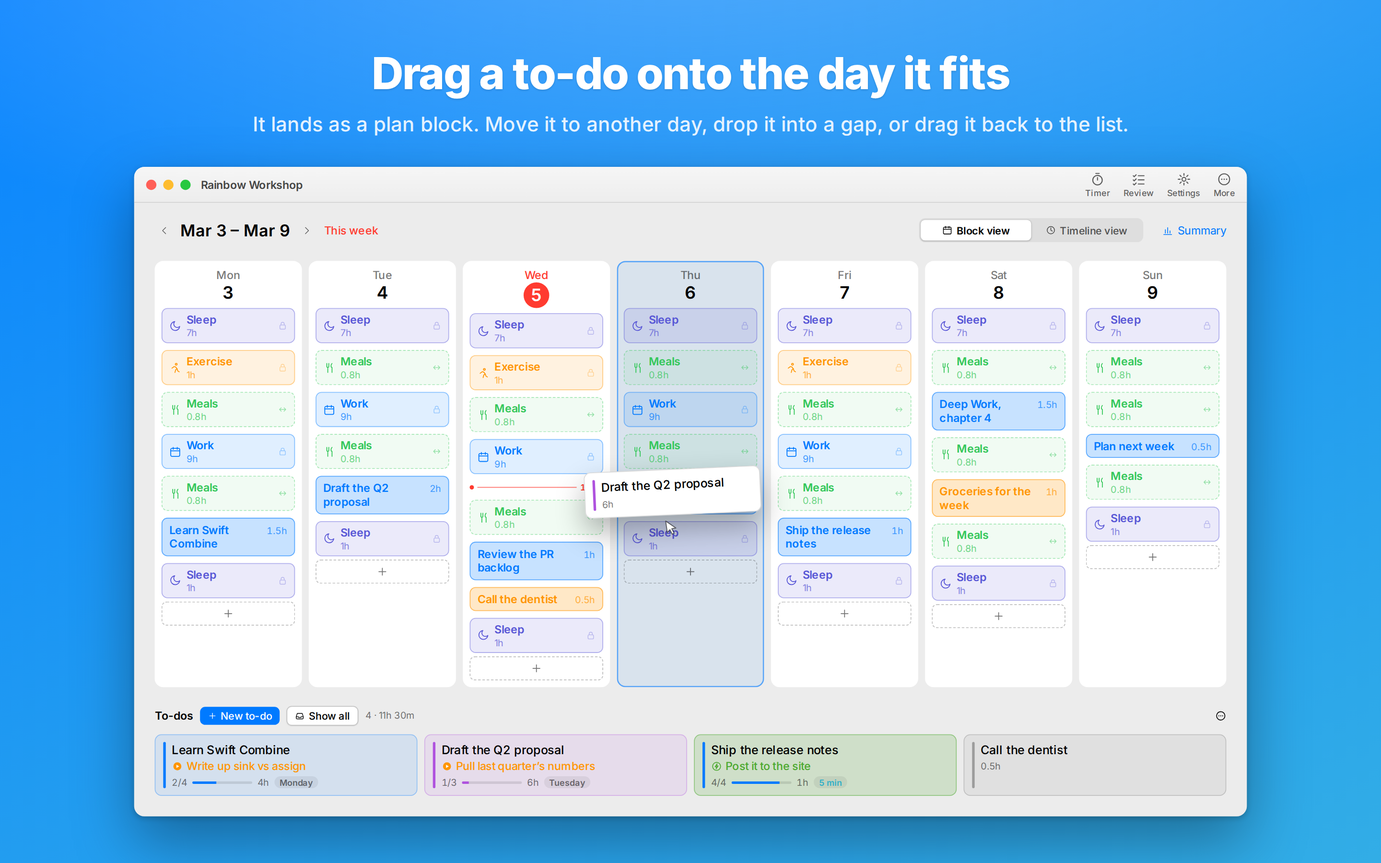
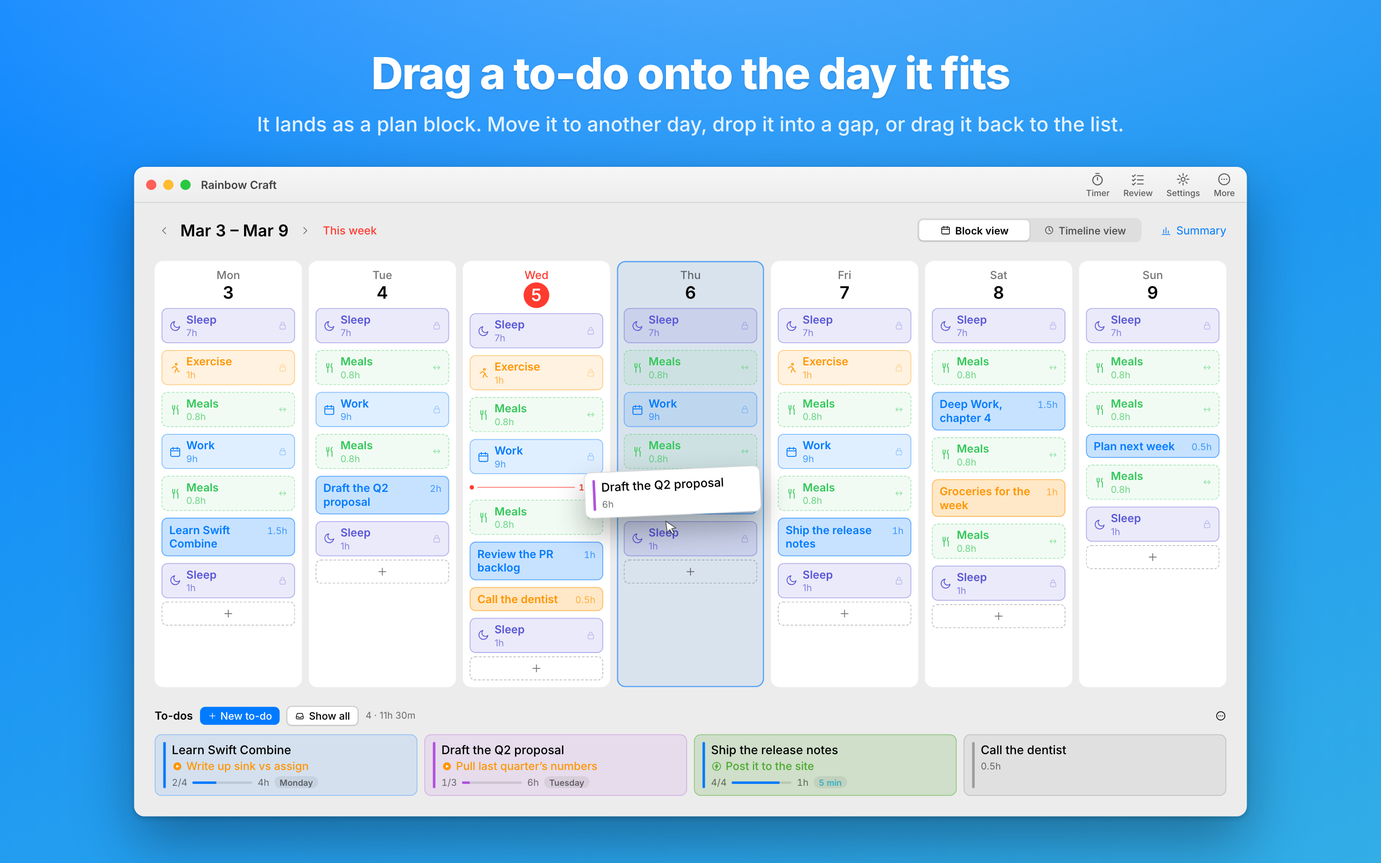
feat: 1.1.6 — 영어 이름은 Rainbow Craft, 오늘은 파란 원, 스포트라이트에서 이름으로 찾힌다
- 영어 이름 Rainbow Workshop → Rainbow Craft. 스토어 이름은 'Rainbow Workshop'이 선점돼
  'Rainbow Craft: Week Planner'(27자). 앱 안·Pro 상품명·영문 페이지·스크린샷을 함께 바꿨다.
  1.1.x 릴리즈 노트의 옛 이름은 그때의 기록이라 두었다.
- 오늘 표시를 빨강에서 파랑으로 — 달력에서 빨강은 공휴일이라 오늘이 쉬는 날로 읽혔다.
  주간 두 보기·일간 날짜 줄·일간 머리. '지금' 선은 시각이라 빨강 그대로.
- LSHasLocalizedDisplayName. 앱스토어 업데이트는 설치된 자리에 덮어써서, 처음
  'WeekBlocks.app'으로 받은 사람은 스포트라이트에서 'WeekBlocks'로만 찾아졌다.
- 버전 1.1.6 (21), 릴리즈 노트.

diff --git a/appstore/index-en.html b/appstore/index-en.html
@@ -1,6 +1,6 @@
 <!doctype html>
 <html lang="en"><head><meta charset="utf-8">
-<title>Rainbow Workshop — App Store screenshots (en)</title>
+<title>Rainbow Craft — App Store screenshots (en)</title>
 <link rel="stylesheet" href="style.css"><style>
 .stack { position:relative; display:flex; justify-content:center; width:1300px; flex:0 0 auto }
 .win.dim::after { content:""; position:absolute; inset:0; background:rgba(0,0,0,.17); z-index:2 }
@@ -17,7 +17,7 @@
   <div class="win ">
     <div class="titlebar">
       <div class="lights"><i class="r"></i><i class="y"></i><i class="g"></i></div>
-      <div class="wtitle">Rainbow Workshop</div>
+      <div class="wtitle">Rainbow Craft</div>
   <div class="tools">
     <div class="tool"><svg class="" viewBox="0 0 24 24" fill="none" stroke="currentColor" stroke-width="1.7" stroke-linecap="round" stroke-linejoin="round"><circle cx="12" cy="13.5" r="7.8"/><path d="M12 13.5V9.2M9.2 2.4h5.6"/></svg><span>Timer</span></div><div class="tool"><svg class="" viewBox="0 0 24 24" fill="none" stroke="currentColor" stroke-width="1.7" stroke-linecap="round" stroke-linejoin="round"><path d="M3.2 6.2 4.8 7.8 8 4.6M3.2 13 4.8 14.6 8 11.4M3.2 19.8l1.6 1.6L8 18.2M11.5 6.2H21M11.5 13H21M11.5 19.8H21"/></svg><span>Review</span></div><div class="tool"><svg class="" viewBox="0 0 24 24" fill="none" stroke="currentColor" stroke-width="1.7" stroke-linecap="round" stroke-linejoin="round"><circle cx="12" cy="12" r="3.2"/><path d="M12 2.6v3M12 18.4v3M21.4 12h-3M5.6 12h-3M18.6 5.4l-2.1 2.1M7.5 16.5l-2.1 2.1M18.6 18.6l-2.1-2.1M7.5 7.5 5.4 5.4"/></svg><span>Settings</span></div><div class="tool"><svg class="" viewBox="0 0 24 24" fill="none" stroke="currentColor" stroke-width="1.7" stroke-linecap="round" stroke-linejoin="round"><circle cx="12" cy="12" r="9"/><circle cx="8" cy="12" r="1.1" fill="currentColor" stroke="none"/><circle cx="12" cy="12" r="1.1" fill="currentColor" stroke="none"/><circle cx="16" cy="12" r="1.1" fill="currentColor" stroke="none"/></svg><span>More</span></div>
   </div>
@@ -283,7 +283,7 @@
   <div class="win ">
     <div class="titlebar">
       <div class="lights"><i class="r"></i><i class="y"></i><i class="g"></i></div>
-      <div class="wtitle">Rainbow Workshop</div>
+      <div class="wtitle">Rainbow Craft</div>
   <div class="tools">
     <div class="tool"><svg class="" viewBox="0 0 24 24" fill="none" stroke="currentColor" stroke-width="1.7" stroke-linecap="round" stroke-linejoin="round"><circle cx="12" cy="13.5" r="7.8"/><path d="M12 13.5V9.2M9.2 2.4h5.6"/></svg><span>Timer</span></div><div class="tool"><svg class="" viewBox="0 0 24 24" fill="none" stroke="currentColor" stroke-width="1.7" stroke-linecap="round" stroke-linejoin="round"><path d="M3.2 6.2 4.8 7.8 8 4.6M3.2 13 4.8 14.6 8 11.4M3.2 19.8l1.6 1.6L8 18.2M11.5 6.2H21M11.5 13H21M11.5 19.8H21"/></svg><span>Review</span></div><div class="tool"><svg class="" viewBox="0 0 24 24" fill="none" stroke="currentColor" stroke-width="1.7" stroke-linecap="round" stroke-linejoin="round"><circle cx="12" cy="12" r="3.2"/><path d="M12 2.6v3M12 18.4v3M21.4 12h-3M5.6 12h-3M18.6 5.4l-2.1 2.1M7.5 16.5l-2.1 2.1M18.6 18.6l-2.1-2.1M7.5 7.5 5.4 5.4"/></svg><span>Settings</span></div><div class="tool"><svg class="" viewBox="0 0 24 24" fill="none" stroke="currentColor" stroke-width="1.7" stroke-linecap="round" stroke-linejoin="round"><circle cx="12" cy="12" r="9"/><circle cx="8" cy="12" r="1.1" fill="currentColor" stroke="none"/><circle cx="12" cy="12" r="1.1" fill="currentColor" stroke="none"/><circle cx="16" cy="12" r="1.1" fill="currentColor" stroke="none"/></svg><span>More</span></div>
   </div>
@@ -598,7 +598,7 @@
   <div class="win ">
     <div class="titlebar">
       <div class="lights"><i class="r"></i><i class="y"></i><i class="g"></i></div>
-      <div class="wtitle">Rainbow Workshop</div>
+      <div class="wtitle">Rainbow Craft</div>
   <div class="tools">
     <div class="tool"><svg class="" viewBox="0 0 24 24" fill="none" stroke="currentColor" stroke-width="1.7" stroke-linecap="round" stroke-linejoin="round"><circle cx="12" cy="13.5" r="7.8"/><path d="M12 13.5V9.2M9.2 2.4h5.6"/></svg><span>Timer</span></div><div class="tool"><svg class="" viewBox="0 0 24 24" fill="none" stroke="currentColor" stroke-width="1.7" stroke-linecap="round" stroke-linejoin="round"><path d="M3.2 6.2 4.8 7.8 8 4.6M3.2 13 4.8 14.6 8 11.4M3.2 19.8l1.6 1.6L8 18.2M11.5 6.2H21M11.5 13H21M11.5 19.8H21"/></svg><span>Review</span></div><div class="tool"><svg class="" viewBox="0 0 24 24" fill="none" stroke="currentColor" stroke-width="1.7" stroke-linecap="round" stroke-linejoin="round"><circle cx="12" cy="12" r="3.2"/><path d="M12 2.6v3M12 18.4v3M21.4 12h-3M5.6 12h-3M18.6 5.4l-2.1 2.1M7.5 16.5l-2.1 2.1M18.6 18.6l-2.1-2.1M7.5 7.5 5.4 5.4"/></svg><span>Settings</span></div><div class="tool"><svg class="" viewBox="0 0 24 24" fill="none" stroke="currentColor" stroke-width="1.7" stroke-linecap="round" stroke-linejoin="round"><circle cx="12" cy="12" r="9"/><circle cx="8" cy="12" r="1.1" fill="currentColor" stroke="none"/><circle cx="12" cy="12" r="1.1" fill="currentColor" stroke="none"/><circle cx="16" cy="12" r="1.1" fill="currentColor" stroke="none"/></svg><span>More</span></div>
   </div>
@@ -899,7 +899,7 @@
   <div class="win dim">
     <div class="titlebar">
       <div class="lights"><i class="r"></i><i class="y"></i><i class="g"></i></div>
-      <div class="wtitle">Rainbow Workshop</div>
+      <div class="wtitle">Rainbow Craft</div>
   <div class="tools">
     <div class="tool"><svg class="" viewBox="0 0 24 24" fill="none" stroke="currentColor" stroke-width="1.7" stroke-linecap="round" stroke-linejoin="round"><circle cx="12" cy="13.5" r="7.8"/><path d="M12 13.5V9.2M9.2 2.4h5.6"/></svg><span>Timer</span></div><div class="tool"><svg class="" viewBox="0 0 24 24" fill="none" stroke="currentColor" stroke-width="1.7" stroke-linecap="round" stroke-linejoin="round"><path d="M3.2 6.2 4.8 7.8 8 4.6M3.2 13 4.8 14.6 8 11.4M3.2 19.8l1.6 1.6L8 18.2M11.5 6.2H21M11.5 13H21M11.5 19.8H21"/></svg><span>Review</span></div><div class="tool"><svg class="" viewBox="0 0 24 24" fill="none" stroke="currentColor" stroke-width="1.7" stroke-linecap="round" stroke-linejoin="round"><circle cx="12" cy="12" r="3.2"/><path d="M12 2.6v3M12 18.4v3M21.4 12h-3M5.6 12h-3M18.6 5.4l-2.1 2.1M7.5 16.5l-2.1 2.1M18.6 18.6l-2.1-2.1M7.5 7.5 5.4 5.4"/></svg><span>Settings</span></div><div class="tool"><svg class="" viewBox="0 0 24 24" fill="none" stroke="currentColor" stroke-width="1.7" stroke-linecap="round" stroke-linejoin="round"><circle cx="12" cy="12" r="9"/><circle cx="8" cy="12" r="1.1" fill="currentColor" stroke="none"/><circle cx="12" cy="12" r="1.1" fill="currentColor" stroke="none"/><circle cx="16" cy="12" r="1.1" fill="currentColor" stroke="none"/></svg><span>More</span></div>
   </div>
@@ -1276,7 +1276,7 @@
   <div class="win dim">
     <div class="titlebar">
       <div class="lights"><i class="r"></i><i class="y"></i><i class="g"></i></div>
-      <div class="wtitle">Rainbow Workshop</div>
+      <div class="wtitle">Rainbow Craft</div>
   <div class="tools">
     <div class="tool"><svg class="" viewBox="0 0 24 24" fill="none" stroke="currentColor" stroke-width="1.7" stroke-linecap="round" stroke-linejoin="round"><circle cx="12" cy="13.5" r="7.8"/><path d="M12 13.5V9.2M9.2 2.4h5.6"/></svg><span>Timer</span></div><div class="tool"><svg class="" viewBox="0 0 24 24" fill="none" stroke="currentColor" stroke-width="1.7" stroke-linecap="round" stroke-linejoin="round"><path d="M3.2 6.2 4.8 7.8 8 4.6M3.2 13 4.8 14.6 8 11.4M3.2 19.8l1.6 1.6L8 18.2M11.5 6.2H21M11.5 13H21M11.5 19.8H21"/></svg><span>Review</span></div><div class="tool"><svg class="" viewBox="0 0 24 24" fill="none" stroke="currentColor" stroke-width="1.7" stroke-linecap="round" stroke-linejoin="round"><circle cx="12" cy="12" r="3.2"/><path d="M12 2.6v3M12 18.4v3M21.4 12h-3M5.6 12h-3M18.6 5.4l-2.1 2.1M7.5 16.5l-2.1 2.1M18.6 18.6l-2.1-2.1M7.5 7.5 5.4 5.4"/></svg><span>Settings</span></div><div class="tool"><svg class="" viewBox="0 0 24 24" fill="none" stroke="currentColor" stroke-width="1.7" stroke-linecap="round" stroke-linejoin="round"><circle cx="12" cy="12" r="9"/><circle cx="8" cy="12" r="1.1" fill="currentColor" stroke="none"/><circle cx="12" cy="12" r="1.1" fill="currentColor" stroke="none"/><circle cx="16" cy="12" r="1.1" fill="currentColor" stroke="none"/></svg><span>More</span></div>
   </div>
@@ -1604,7 +1604,7 @@
   <div class="win dim">
     <div class="titlebar">
       <div class="lights"><i class="r"></i><i class="y"></i><i class="g"></i></div>
-      <div class="wtitle">Rainbow Workshop</div>
+      <div class="wtitle">Rainbow Craft</div>
   <div class="tools">
     <div class="tool"><svg class="" viewBox="0 0 24 24" fill="none" stroke="currentColor" stroke-width="1.7" stroke-linecap="round" stroke-linejoin="round"><circle cx="12" cy="13.5" r="7.8"/><path d="M12 13.5V9.2M9.2 2.4h5.6"/></svg><span>Timer</span></div><div class="tool"><svg class="" viewBox="0 0 24 24" fill="none" stroke="currentColor" stroke-width="1.7" stroke-linecap="round" stroke-linejoin="round"><path d="M3.2 6.2 4.8 7.8 8 4.6M3.2 13 4.8 14.6 8 11.4M3.2 19.8l1.6 1.6L8 18.2M11.5 6.2H21M11.5 13H21M11.5 19.8H21"/></svg><span>Review</span></div><div class="tool"><svg class="" viewBox="0 0 24 24" fill="none" stroke="currentColor" stroke-width="1.7" stroke-linecap="round" stroke-linejoin="round"><circle cx="12" cy="12" r="3.2"/><path d="M12 2.6v3M12 18.4v3M21.4 12h-3M5.6 12h-3M18.6 5.4l-2.1 2.1M7.5 16.5l-2.1 2.1M18.6 18.6l-2.1-2.1M7.5 7.5 5.4 5.4"/></svg><span>Settings</span></div><div class="tool"><svg class="" viewBox="0 0 24 24" fill="none" stroke="currentColor" stroke-width="1.7" stroke-linecap="round" stroke-linejoin="round"><circle cx="12" cy="12" r="9"/><circle cx="8" cy="12" r="1.1" fill="currentColor" stroke="none"/><circle cx="12" cy="12" r="1.1" fill="currentColor" stroke="none"/><circle cx="16" cy="12" r="1.1" fill="currentColor" stroke="none"/></svg><span>More</span></div>
   </div>

diff --git a/docs/privacy-en.html b/docs/privacy-en.html
@@ -3,8 +3,8 @@
 <head>
 <meta charset="UTF-8" />
 <meta name="viewport" content="width=device-width, initial-scale=1.0" />
-<title>Rainbow Workshop Privacy Policy</title>
-<meta name="description" content="What Rainbow Workshop (macOS) handles, where it is stored, and what it never does." />
+<title>Rainbow Craft Privacy Policy</title>
+<meta name="description" content="What Rainbow Craft (macOS) handles, where it is stored, and what it never does." />
 <style>
   :root {
     --red:#FF3B30; --orange:#FF9500; --yellow:#FFCC00; --green:#34C759;
@@ -77,15 +77,15 @@
 
 <main class="wrap">
 
-<p style="padding-top:28px"><a href="index.html">Back to Rainbow Workshop</a> &middot; <a href="privacy.html">한국어</a></p>
+<p style="padding-top:28px"><a href="index.html">Back to Rainbow Craft</a> &middot; <a href="privacy.html">한국어</a></p>
 
 <header style="padding:8px 0 28px">
   <h1 style="font-size:34px; text-align:left; margin:0 0 8px">Privacy Policy</h1>
-  <p class="muted" style="margin:0">Rainbow Workshop (macOS) &middot; Last updated: September 9, 2026</p>
+  <p class="muted" style="margin:0">Rainbow Craft (macOS) &middot; Last updated: September 9, 2026</p>
 </header>
 
 <section style="border-top:1px solid var(--line); padding-top:28px">
-  <p>Rainbow Workshop (the app) is a local-first app with no server of its own. This document explains what the app handles, where it stores it, and what it never does.</p>
+  <p>Rainbow Craft (the app) is a local-first app with no server of its own. This document explains what the app handles, where it stores it, and what it never does.</p>
   <div class="note">
     In short. What you write (to-dos, plans, routines) is stored only on your device and in your own private iCloud database, and the developer cannot reach it. To keep improving the app, it does send <b>anonymous usage statistics</b> — numbers such as app version, launch count, and how many items you have. These never include anything you wrote or anything that identifies you, and you can turn them off in Settings.
   </div>
@@ -201,8 +201,8 @@
 </main>
 
 <footer>
-  <div>2026 Rainbow Workshop</div>
-  <div class="fam">Rainbow Workshop (macOS) &middot; Rainbow of Desire (iOS)</div>
+  <div>2026 Rainbow Craft</div>
+  <div class="fam">Rainbow Craft (macOS) &middot; Rainbow of Desire (iOS)</div>
 </footer>
 
 </body>

diff --git a/docs/support-en.html b/docs/support-en.html
@@ -3,8 +3,8 @@
 <head>
 <meta charset="UTF-8" />
 <meta name="viewport" content="width=device-width, initial-scale=1.0" />
-<title>Rainbow Workshop Support</title>
-<meta name="description" content="Help and contact for Rainbow Workshop, a weekly time-blocking app for macOS." />
+<title>Rainbow Craft Support</title>
+<meta name="description" content="Help and contact for Rainbow Craft, a weekly time-blocking app for macOS." />
 <style>
   :root {
     --red:#FF3B30; --orange:#FF9500; --yellow:#FFCC00; --green:#34C759;
@@ -79,7 +79,7 @@
 
 <header class="hero" style="padding:56px 0 40px">
   <span class="badge">macOS</span>
-  <h1>Rainbow Workshop</h1>
+  <h1>Rainbow Craft</h1>
   <p class="tagline">A workbench for planning your week by day and by hour. Drag a to-do onto a day, and watch what actually fits.</p>
 </header>
 
@@ -118,7 +118,7 @@
 
 <section>
   <h2>Works with your iPhone</h2>
-  <p>On the same iCloud account, Rainbow Workshop connects with the iOS app Rainbow of Desire. To-dos written on your Mac appear on your iPhone, and the other way round.</p>
+  <p>On the same iCloud account, Rainbow Craft connects with the iOS app Rainbow of Desire. To-dos written on your Mac appear on your iPhone, and the other way round.</p>
   <p class="muted">Writing on this Mac is free. Pro covers only sending what you write here over to your iPhone.</p>
 </section>
 
@@ -163,8 +163,8 @@
 </main>
 
 <footer>
-  <div>2026 Rainbow Workshop</div>
-  <div class="fam">Rainbow Workshop (macOS) &middot; Rainbow of Desire (iOS)</div>
+  <div>2026 Rainbow Craft</div>
+  <div class="fam">Rainbow Craft (macOS) &middot; Rainbow of Desire (iOS)</div>
   <div class="fam"><a href="privacy-en.html">Privacy Policy</a> &middot; <a href="index.html">한국어</a></div>
 </footer>
 

diff --git a/WeekBlocks/ContentView.swift b/WeekBlocks/ContentView.swift
@@ -851,18 +851,18 @@ struct ContentView: View {
             VStack(spacing: 4) {
                 Text(day.shortLabel)
                     .font(.system(size: 11, weight: .semibold, design: .rounded))
-                    .foregroundStyle(today ? Color.red : .secondary)
+                    .foregroundStyle(today ? Color.blue : .secondary)
                 ZStack {
                     if selected {
                         Circle()
-                            .fill(today ? Color.red : Color.accentColor)
-                            .shadow(color: (today ? Color.red : Color.accentColor).opacity(0.35), radius: 5, y: 2)
+                            .fill(today ? Color.blue : Color.accentColor)
+                            .shadow(color: (today ? Color.blue : Color.accentColor).opacity(0.35), radius: 5, y: 2)
                             .matchedGeometryEffect(id: "selectedDay", in: dayStripNamespace)
                     }
                     Text(dayNumber(day))
                         .font(.system(size: 15, weight: .bold, design: .rounded))
                         .monospacedDigit()
-                        .foregroundStyle(selected ? Color.white : (today ? Color.red : Color.primary))
+                        .foregroundStyle(selected ? Color.white : (today ? Color.blue : Color.primary))
                 }
                 .frame(width: 32, height: 32)
                 // 지난 날인데 안 찍은 것이 남았다. 그 요일을 열기 전에 알아야 한다.

diff --git a/WeekBlocks/WeekGridView.swift b/WeekBlocks/WeekGridView.swift
@@ -295,7 +295,7 @@ struct DayColumn: View {
             VStack(spacing: 3) {
                 Text(day.shortLabel)
                     .font(.system(size: 12, weight: .semibold))
-                    .foregroundStyle(isToday ? Color.red : .secondary)
+                    .foregroundStyle(isToday ? Color.blue : .secondary)
                 Text(dayNumber)
                     .font(.system(size: 17, weight: .bold))
                     .monospacedDigit()
@@ -303,9 +303,10 @@ struct DayColumn: View {
                     .frame(width: 32, height: 32)
                     .background {
                         if isToday {
+                            // 오늘은 파랑 — 달력에서 빨강은 공휴일이라, 오늘을 빨갛게 칠하면 쉬는 날로 읽힌다.
                             Circle()
-                                .fill(Color.red)
-                                .shadow(color: .red.opacity(0.35), radius: 5, y: 2)
+                                .fill(Color.blue)
+                                .shadow(color: .blue.opacity(0.35), radius: 5, y: 2)
                         } else if headerHovering, onOpenDay != nil {
                             Circle().fill(Color.primary.opacity(0.06))
                         }

diff --git a/WeekBlocks/DayTimelineView.swift b/WeekBlocks/DayTimelineView.swift
@@ -478,7 +478,7 @@ struct DayTimelineRow: View {
             HStack(spacing: 5) {
                 Text(day.shortLabel)
                     .font(.system(size: 11, weight: .semibold))
-                    .foregroundStyle(isToday ? Color.red : .secondary)
+                    .foregroundStyle(isToday ? Color.blue : .secondary)
                     .frame(width: 14)
                 Text(dayNumber)
                     .font(.system(size: 13, weight: .bold))
@@ -487,8 +487,9 @@ struct DayTimelineRow: View {
                     .frame(width: 26, height: 26)
                     .background {
                         if isToday {
-                            Circle().fill(Color.red)
-                                .shadow(color: .red.opacity(0.3), radius: 4, y: 1.5)
+                            // 오늘은 파랑 — 달력에서 빨강은 공휴일이라, 오늘을 빨갛게 칠하면 쉬는 날로 읽힌다.
+                            Circle().fill(Color.blue)
+                                .shadow(color: .blue.opacity(0.3), radius: 4, y: 1.5)
                         } else if labelHovering {
                             Circle().fill(Color.primary.opacity(0.07))
                         }

diff --git a/WeekBlocks/DayScheduleView.swift b/WeekBlocks/DayScheduleView.swift
@@ -174,7 +174,7 @@ struct DayScheduleView: View {
         HStack(alignment: .center, spacing: 10) {
             Text(day.longLabel)
                 .font(.system(size: 17, weight: .bold, design: .rounded))
-                .foregroundStyle(isToday ? Color.red : .primary)
+                .foregroundStyle(isToday ? Color.blue : .primary)
             // 남은 시간은 말랑한 알약 하나 — 숫자가 표의 칸이 아니라 한마디로 읽힌다.
             HStack(spacing: 4) {
                 Image(systemName: overbooked ? "exclamationmark.circle.fill" : "hourglass")

diff --git a/WeekBlocks/WeekBlocksSpec.swift b/WeekBlocks/WeekBlocksSpec.swift
@@ -10,7 +10,7 @@ import Foundation
 import LeeoKit
 
 enum WeekBlocksSpec: LeeoAppSpec {
-    /// 사람에게 보여 주는 이름 — 영어 환경에서는 "Rainbow Workshop"이 된다.
+    /// 사람에게 보여 주는 이름 — 영어 환경에서는 "Rainbow Craft"이 된다.
     static var appName: String { String(localized: "무지개 공방", comment: "앱 이름") }
     static let developerEmail = "leeo@kakao.com"
 

diff --git a/appstore/style.css b/appstore/style.css
@@ -1,4 +1,4 @@
-/* App Store screenshot mockups — Rainbow Workshop (macOS), English.
+/* App Store screenshot mockups — Rainbow Craft (macOS), English.
    Each .shot is one 1440x900 screenshot, rendered at 2x -> 2880x1800. */
 
 @font-face { font-family: UI; src: url(fonts/inter-400.ttf); font-weight: 400 }

diff --git a/docs/RELEASE_NOTES.md b/docs/RELEASE_NOTES.md
@@ -1,5 +1,65 @@
 # 릴리즈 노트
 
+## 1.1.6
+
+### 앱스토어 (한국어)
+
+할 일을 프로젝트로 묶어 끝이 있는 일로 봅니다
+시간은 누르면 뜨는 알약에서 바로 고릅니다
+끌어 옮기는 동안 놓일 시각이 보입니다
+회사 같은 긴 일정 안에 회의를 겹쳐 그립니다
+오늘은 파란 원으로 표시합니다
+
+### App Store (English)
+
+Group to-dos into projects that actually end
+Pick a duration from one tap of a pill
+See the exact time while you drag a plan
+Draw meetings inside long blocks like work
+Today now shows as a blue circle
+
+### 무지개 공방 (macOS)
+
+**할 일을 프로젝트로 묶습니다.**
+
+- 분류(업무·개인)와는 다른 축입니다. 할 일 하나가 '업무'이면서 '이사 준비'일 수 있습니다.
+- 할 일 목록이 프로젝트별로 묶이고, 묶음은 접어 둘 수 있습니다. 접은 것은 기억합니다.
+- 프로젝트를 열면 먼저 한눈에 보기가 섭니다. 얼마나 왔는지, 무엇이 남았는지, 다음에 할 일이 무엇인지.
+- 프로젝트 창에서 적고 ⏎를 누르면 그 프로젝트에 바로 담기고, 이어서 적을 수 있습니다.
+- 할 일 카드를 프로젝트 묶음에 놓으면 그 프로젝트로 들어가고, 다른 카드 위에 놓으면 그 안의 하위 할 일이 됩니다.
+- 프로젝트를 지워도 그 안의 할 일은 지우지 않습니다.
+
+**할 일 상세가 가벼워졌습니다.**
+
+- 할 일 아래로 단계가 가지처럼 뻗고, 지금 할 차례인 단계에 '지금'이 붙습니다.
+- 끝낸 단계는 한 줄로 접혀, 지금 할 단계가 늘 맨 위에 섭니다.
+- 쪼개기 도우미는 부를 때만 펼쳐집니다. 조언 문구는 이 창에서 뺐습니다.
+
+**시간은 한 번 눌러 고릅니다.**
+
+시간을 적던 다섯 자리(일정 편집, 할 일 머리, 단계 줄, 프로젝트 창, 여러 개 고치기)가 하나로 모였습니다. 누르면 15분부터 4시간까지 단추가 뜨고, −·+나 ←·→로 15분씩 조절합니다.
+
+**시간표가 더 또렷합니다.**
+
+- 끌어 옮기는 내내 15분 눈금에 붙고, 놓일 시각이 자 위에 뜹니다. 일간과 주간이 같은 규칙을 씁니다.
+- 회사처럼 긴 일정은 왼쪽 절반만 차지합니다. 오른쪽 절반을 끌면 그 안에 회의를 겹쳐 그릴 수 있고, 겹친 일정은 남은 시간을 줄이지 않습니다.
+- 뺀 루틴과 끼니는 시간표에서 사라지고, '숨긴 것' 칩에서 되살립니다. 일간에서는 '오늘만 빼기'가 됩니다.
+- 계획 알약에 제목 첫 글자 대신 아이콘이 섭니다. 아이콘을 누르면 다른 것으로 바뀝니다.
+- 끼니 시각을 루틴에서 한 번 정하면 모든 날이 따라옵니다. 알약을 우클릭해 '이 시각을 매일 기본으로'를 고를 수도 있습니다.
+
+**오늘은 파란 원입니다.**
+
+달력에서 빨간 날짜는 공휴일로 읽힙니다. 그래서 오늘을 빨갛게 칠하면 쉬는 날처럼 보였습니다. 주간·일간 어디서든 오늘은 이제 파란색입니다. 지금 시각을 가리키는 선은 그대로 빨강입니다.
+
+**영어 이름이 Rainbow Craft로 바뀌었습니다.**
+
+시스템 언어가 영어면 앱 이름이 Rainbow Craft로 보입니다. 공방이 손으로 무언가를 만드는 곳이라, workshop보다 craft가 가깝습니다.
+
+**고친 것**
+
+- 예전 버전부터 쓰시던 분은 스포트라이트에서 '무지개 공방'으로 앱이 찾아지지 않았습니다. 이제 앱 이름으로 찾아집니다.
+- '지금 시작' 배너가 닫히거나 저절로 내려갈 때 움직임 없이 툭 사라지던 것을 고쳤습니다.
+
 ## 1.1.5
 
 ### 앱스토어 (한국어)

diff --git a/docs/marketing/reddit-2026-09.md b/docs/marketing/reddit-2026-09.md
@@ -5,7 +5,7 @@
 ## 제목
 
 ```
-[macOS/iOS] [Rainbow Workshop + Rainbow of Desire][Pro → FREE with code, until Sep 30][plan your week on Mac, catch 5-minute gaps on iPhone]
+[macOS/iOS] [Rainbow Craft + Rainbow of Desire][Pro → FREE with code, until Sep 30][plan your week on Mac, catch 5-minute gaps on iPhone]
 ```
 
 ## 본문
@@ -18,7 +18,7 @@ everything you want to get done. It looks doable every Sunday night, and by Wedn
 not. The week was never empty. Sleep, meals and work had already taken most of it before I wrote
 anything down. So I built the planner I wanted, as two apps that share one to-do list.
 
-Rainbow Workshop (Mac) is where you plan. It starts from the hours you can't take back. A week is
+Rainbow Craft (Mac) is where you plan. It starts from the hours you can't take back. A week is
 168 hours. Lay down sleep, meals, work and exercise as fixed routines, and it shows you what's
 really left. In my case it was about 46 hours, not 168. Then you drag your to-dos into that time.
 
@@ -63,7 +63,7 @@ import, sharing and stats.
 
 Pro is free this month with code SEPT. The two apps are separate on the App Store, so redeem
 both:
-Mac (Rainbow Workshop): https://apps.apple.com/redeem?ctx=offercodes&id=6777737322&code=SEPT
+Mac (Rainbow Craft): https://apps.apple.com/redeem?ctx=offercodes&id=6777737322&code=SEPT
 iPhone (Rainbow of Desire): https://apps.apple.com/redeem?ctx=offercodes&id=6755280882&code=SEPT
 
 I'd genuinely like to hear where it falls down. The thing I'm least sure about is the split

diff --git a/todo.md b/todo.md
@@ -1080,3 +1080,11 @@ sortIndex·createdAt·isCompleted·completedAt. 관계 대신 uuid 문자열로 
       기본과 같아지므로 지우고, 다른 날 따로 옮긴 것은 그대로 둔다.
 - [ ] ⚠ **새 CloudKit 칸 `CD_Routine.CD_sessionStartsRaw`** — Production 배포 대상(프로젝트·nextAction·iconName과 함께).
       맥 표본 올리기가 채운다(쿼터 루틴 표본). 아이폰 Routine 에도 칸을 넣었다(아이폰은 끼니 시각을 안 그린다).
+
+## 1.1.6 — 영어 이름 Rainbow Craft, 오늘은 파랑 (2026-09-24)
+- [x] 영어 이름 Rainbow Workshop → Rainbow Craft (앱 안·스크린샷·영문 페이지). 스토어 이름은 `Rainbow Craft: Week Planner`
+- [x] 오늘 표시를 빨강에서 파랑으로 (빨강은 공휴일로 읽힌다) — 주간 두 보기·일간 날짜 줄·일간 머리
+- [x] `LSHasLocalizedDisplayName` — 예전 `WeekBlocks.app`으로 설치된 사람도 스포트라이트에서 이름으로 찾게
+- [ ] App Store Connect: English (U.S.) 현지화 추가, 이름 `Rainbow Craft: Week Planner`
+- [x] 1.1.6 릴리즈 노트
+- [ ] 스크린샷 목업(build.mjs)의 오늘 표시도 파랑으로 맞추기
